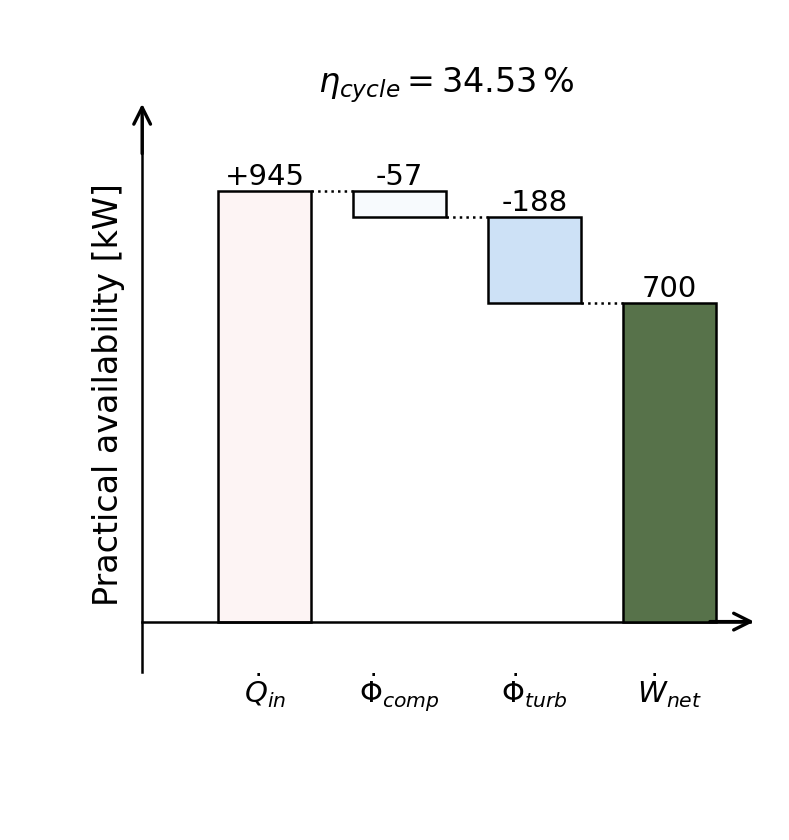
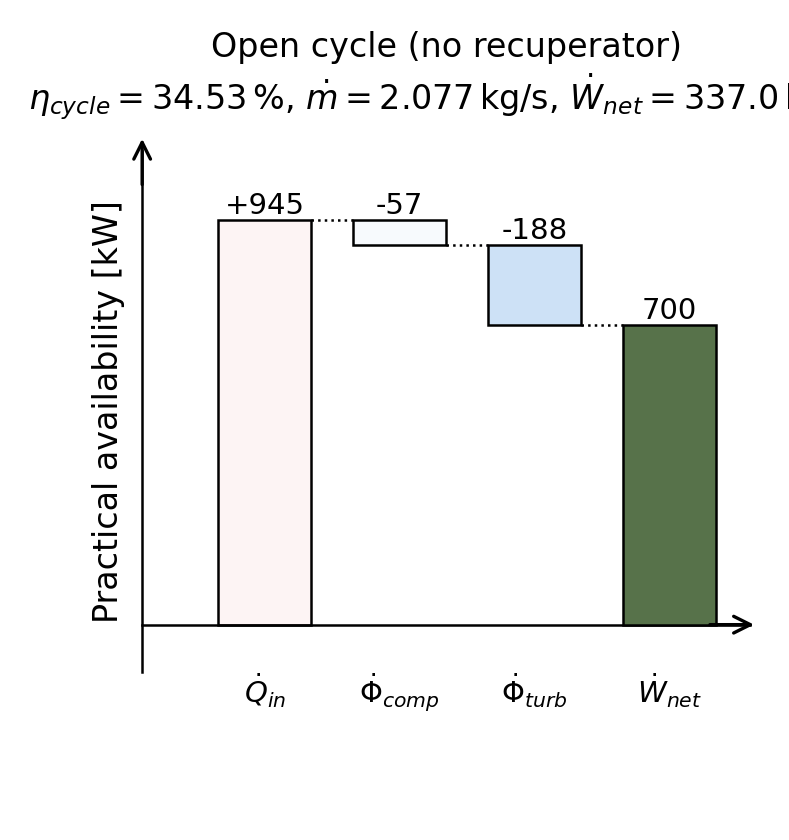
Add fig9 geometry and case titles to conf PPT cycle bar charts.
Store rec_ref/fix/glob HEx ratios and show them in plot titles and printouts for the recuperated waterfall cases.

diff --git a/analysis/paper_figures/cycle_bar_plot.py b/analysis/paper_figures/cycle_bar_plot.py
@@ -8,7 +8,7 @@ from pathlib import Path
 
 import matplotlib.pyplot as plt
 
-from cycle_assumptions import RecuperatorInputs
+from cycle_assumptions import RecuperatorInputs, RecupHexGeometry, mach_ratio_first_order
 from cycle_waterfall import CycleWaterfallBreakdown
 from plot_colors import COLOR_THERMAL, COLOR_VISC_HOT, color_with_alpha
 
@@ -31,7 +31,7 @@ VALUE_PAD = 0.012
 FIG_HEIGHT = 2.8
 FIG_WIDTH_RECUP = 3.8
 Y_LIMIT_BUFFER_FRAC = 0.10
-SUBPLOT_ADJ = dict(left=0.18, right=0.95, bottom=0.20, top=0.86)
+SUBPLOT_ADJ = dict(left=0.18, right=0.95, bottom=0.20, top=0.82)
 YLABEL = "Practical availability [kW]"
 
 LABELS_NOREC = [
@@ -51,17 +51,53 @@ LABELS_RECUP = [
 REFERENCE_N_SLOTS = len(LABELS_RECUP)
 
 
-def cycle_plot_title(bd: CycleWaterfallBreakdown, recup: RecuperatorInputs | None = None) -> str:
-    """LaTeX title with recuperator parameters (if any) and cycle efficiency."""
+def cycle_plot_title(
+    bd: CycleWaterfallBreakdown,
+    recup: RecuperatorInputs | None = None,
+    *,
+    geom: RecupHexGeometry | None = None,
+    mdot_ref_kg_per_s: float | None = None,
+    case_label: str | None = None,
+) -> str:
+    """Multi-line LaTeX title: case label; optional geometry; HEx and cycle parameters."""
     eta_pct = bd.eta_cycle * 100
-    if recup is None:
-        return rf"$\eta_{{cycle}} = {eta_pct:.2f}\,\%$"
-    return (
+    mdot = bd.mdot_kg_per_s
+    hex_line = (
         rf"$\varepsilon = {recup.eps * 100:.2f}\,\%$, "
         rf"$\Delta p/p_{{hi}} = {recup.dp_hot_frac * 100:.2f}\,\%$, "
         rf"$\Delta p/p_{{ci}} = {recup.dp_cold_frac * 100:.2f}\,\%$, "
         rf"$\eta_{{cycle}} = {eta_pct:.2f}\,\%$"
+    ) if recup is not None else (
+        rf"$\eta_{{cycle}} = {eta_pct:.2f}\,\%$, "
+        rf"$\dot{{m}} = {mdot:.3f}\,\mathrm{{kg/s}}$, "
+        rf"$\dot{{W}}_{{net}} = {bd.w_net_J_per_kg / 1e3:.1f}\,\mathrm{{kJ/kg}}$"
     )
+
+    if recup is None:
+        line1 = case_label if case_label else "Open cycle"
+        return f"{line1}\n{hex_line}"
+
+    line1 = case_label if case_label else "Recuperated cycle"
+    lines = [line1]
+
+    if geom is not None:
+        ao_ref_over_ao = geom.ao_ref_over_ao
+        geo_parts: list[str] = []
+        if abs(geom.a_over_a_ref - 1.0) > 1e-4:
+            geo_parts.extend([
+                rf"$A/A_{{\mathrm{{ref}}}} = {geom.a_over_a_ref:.3f}$",
+                rf"$A_{{o,\mathrm{{ref}}}}/A_o = {ao_ref_over_ao:.3f}$",
+            ])
+            if mdot_ref_kg_per_s is not None:
+                m_ratio = mach_ratio_first_order(mdot, mdot_ref_kg_per_s, ao_ref_over_ao)
+                geo_parts.append(rf"$M/M_{{\mathrm{{ref}}}} = {m_ratio:.3f}$")
+        elif abs(geom.ao_over_ao_ref - 1.0) > 1e-4:
+            geo_parts.append(rf"$A_{{o,\mathrm{{ref}}}}/A_o = {ao_ref_over_ao:.3f}$")
+        if geo_parts:
+            lines.append(", ".join(geo_parts))
+
+    lines.append(hex_line)
+    return "\n".join(lines)
 
 
 def lengthening_waterfall_title(case_label: str, pt, recup: RecuperatorInputs, bd: CycleWaterfallBreakdown) -> str:
@@ -153,8 +189,8 @@ def _shared_y_limits() -> tuple[float, float]:
     open_bd = waterfall_from_solution(solve_open_cycle(DEFAULT_CYCLE))
     peaks.append(_peak_kw(open_bd, open_cycle_steps(open_bd)))
 
-    for _, _, recup in RECUP_PPT_CASES:
-        rec_sol = solve_recuperated_cycle(recup, DEFAULT_CYCLE)
+    for case in RECUP_PPT_CASES:
+        rec_sol = solve_recuperated_cycle(case.recup, DEFAULT_CYCLE)
         if rec_sol is not None:
             rec_bd = waterfall_from_solution(rec_sol)
             peaks.append(_peak_kw(rec_bd, recuperated_cycle_steps(rec_bd)))

diff --git a/analysis/paper_figures/cycle_rec_bars.py b/analysis/paper_figures/cycle_rec_bars.py
@@ -14,44 +14,67 @@ import matplotlib
 matplotlib.use("Agg")
 import matplotlib.pyplot as plt
 
-from cycle_assumptions import DEFAULT_CYCLE, RECUP_PPT_CASES, RecuperatorInputs
+from cycle_assumptions import DEFAULT_CYCLE, RECUP_PPT_CASES, RecupPptCase, mach_ratio_first_order
 from cycle_bar_plot import LABELS_RECUP, cycle_plot_title, fig_cycle_waterfall, recuperated_cycle_steps, save_cycle_bar
 from cycle_model import solve_recuperated_cycle
-from cycle_waterfall import print_waterfall, waterfall_from_solution
+from cycle_waterfall import CycleWaterfallBreakdown, print_waterfall, waterfall_from_solution
 from fig_paths import CONF_PPT_PLOTS, ensure_fig_dirs
 
 
-def _recup_title(label: str, recup: RecuperatorInputs) -> str:
-    return (
-        f"{label}  "
-        f"eps={recup.eps:.2%}  "
-        f"dp_h={recup.dp_hot_frac:.2%}  "
-        f"dp_c={recup.dp_cold_frac:.2%}"
-    )
+def _print_geometry(bd: CycleWaterfallBreakdown, case: RecupPptCase, mdot_ref_kg_per_s: float) -> None:
+    geom = case.geom
+    ao_ref_over_ao = geom.ao_ref_over_ao
+    if abs(geom.a_over_a_ref - 1.0) > 1e-4:
+        print(f"  A/A_ref:                {geom.a_over_a_ref:8.4f}")
+    if abs(geom.ao_over_ao_ref - 1.0) > 1e-4 or abs(geom.a_over_a_ref - 1.0) > 1e-4:
+        print(f"  A_o,ref/A_o:            {ao_ref_over_ao:8.4f}")
+    if abs(geom.a_over_a_ref - 1.0) > 1e-4 and mdot_ref_kg_per_s > 0:
+        m_ratio = mach_ratio_first_order(bd.mdot_kg_per_s, mdot_ref_kg_per_s, ao_ref_over_ao)
+        print(f"  M/M_ref (1st order):    {m_ratio:8.4f}  (= mdot/mdot_ref * A_o,ref/A_o)")
 
 
-def plot_rec_bar(stem: str, label: str, recup: RecuperatorInputs) -> None:
-    sol = solve_recuperated_cycle(recup, DEFAULT_CYCLE)
+def plot_rec_bar(case: RecupPptCase, mdot_ref_kg_per_s: float) -> None:
+    sol = solve_recuperated_cycle(case.recup, DEFAULT_CYCLE)
     if sol is None:
-        raise RuntimeError(f"recuperated cycle solve failed for {stem}")
+        raise RuntimeError(f"recuperated cycle solve failed for {case.stem}")
 
     bd = waterfall_from_solution(sol)
-    print_waterfall(bd, title=_recup_title(label, recup))
+    print_waterfall(
+        bd,
+        title=(
+            f"{case.label}  "
+            f"eps={case.recup.eps:.2%}  "
+            f"dp_h={case.recup.dp_hot_frac:.2%}  "
+            f"dp_c={case.recup.dp_cold_frac:.2%}"
+        ),
+    )
+    _print_geometry(bd, case, mdot_ref_kg_per_s)
 
     fig = fig_cycle_waterfall(
         bd,
         steps=recuperated_cycle_steps(bd),
         bar_labels=LABELS_RECUP,
-        title=cycle_plot_title(bd, recup),
+        title=cycle_plot_title(
+            bd,
+            case.recup,
+            geom=case.geom,
+            mdot_ref_kg_per_s=mdot_ref_kg_per_s,
+            case_label=case.label,
+        ),
     )
-    save_cycle_bar(fig, CONF_PPT_PLOTS, f"cycle_{stem}_bar")
+    save_cycle_bar(fig, CONF_PPT_PLOTS, f"cycle_{case.stem}_bar")
     plt.close(fig)
 
 
 def main() -> None:
     ensure_fig_dirs()
-    for stem, label, recup in RECUP_PPT_CASES:
-        plot_rec_bar(stem, label, recup)
+    ref_sol = solve_recuperated_cycle(RECUP_PPT_CASES[0].recup, DEFAULT_CYCLE)
+    if ref_sol is None:
+        raise RuntimeError("reference recuperated cycle solve failed")
+    mdot_ref = ref_sol.mdot_kg_per_s
+
+    for case in RECUP_PPT_CASES:
+        plot_rec_bar(case, mdot_ref)
 
 
 if __name__ == "__main__":

diff --git a/analysis/paper_figures/cycle_assumptions.py b/analysis/paper_figures/cycle_assumptions.py
@@ -43,6 +43,33 @@ class RecuperatorInputs:
     dp_cold_frac: float
 
 
+@dataclass(frozen=True)
+class RecupHexGeometry:
+    """HEx geometry ratios from fig9 coupled optimum (reference Ao/Ao_ref = 1, A/A_ref = 1)."""
+
+    a_over_a_ref: float
+    ao_over_ao_ref: float
+
+    @property
+    def ao_ref_over_ao(self) -> float:
+        return 1.0 / self.ao_over_ao_ref
+
+
+@dataclass(frozen=True)
+class RecupPptCase:
+    """One recuperated conf-PPT bar chart case."""
+
+    stem: str
+    label: str
+    recup: RecuperatorInputs
+    geom: RecupHexGeometry
+
+
+def mach_ratio_first_order(mdot_kg_per_s: float, mdot_ref_kg_per_s: float, ao_ref_over_ao: float) -> float:
+    """M/M_ref to first order, ignoring sqrt(T_hot_in/T_ref) from cycle coupling."""
+    return (mdot_kg_per_s / mdot_ref_kg_per_s) * ao_ref_over_ao
+
+
 # Default case used across conf PPT plots (matches fig9_w_cycle_model).
 DEFAULT_CYCLE = CycleAssumptions()
 
@@ -51,11 +78,15 @@ REC_REF = RecuperatorInputs(eps=0.5966, dp_hot_frac=0.0626, dp_cold_frac=0.0429)
 REC_FIX = RecuperatorInputs(eps=0.5376, dp_hot_frac=0.0191, dp_cold_frac=0.0131)
 REC_GLOB = RecuperatorInputs(eps=0.6246, dp_hot_frac=0.0199, dp_cold_frac=0.0136)
 
-# (output stem, case label for printout)
-RECUP_PPT_CASES: tuple[tuple[str, str, RecuperatorInputs], ...] = (
-    ("rec_ref", "Reference", REC_REF),
-    ("rec_fix", "Fixed mass opt", REC_FIX),
-    ("rec_glob", "Opt aircraft mass", REC_GLOB),
+# Geometry from fig9 red-line coupled optima (get_line_data).
+GEOM_REF = RecupHexGeometry(a_over_a_ref=1.0, ao_over_ao_ref=1.0)
+GEOM_FIX = RecupHexGeometry(a_over_a_ref=1.0, ao_over_ao_ref=1.5061)  # fixed mass, A/A_ref = 1
+GEOM_GLOB = RecupHexGeometry(a_over_a_ref=1.5708, ao_over_ao_ref=1.7667)  # global aircraft-mass opt
+
+RECUP_PPT_CASES: tuple[RecupPptCase, ...] = (
+    RecupPptCase("rec_ref", "Reference", REC_REF, GEOM_REF),
+    RecupPptCase("rec_fix", "Fixed mass opt", REC_FIX, GEOM_FIX),
+    RecupPptCase("rec_glob", "Opt aircraft mass", REC_GLOB, GEOM_GLOB),
 )
 
 # Backward-compatible alias.

diff --git a/analysis/paper_figures/cycle_norec_bar.py b/analysis/paper_figures/cycle_norec_bar.py
@@ -28,7 +28,7 @@ def main() -> None:
         bd,
         steps=open_cycle_steps(bd),
         bar_labels=LABELS_NOREC,
-        title=cycle_plot_title(bd),
+        title=cycle_plot_title(bd, case_label="Open cycle (no recuperator)"),
     )
     save_cycle_bar(fig, CONF_PPT_PLOTS, "cycle_norec_bar")
     plt.close(fig)
